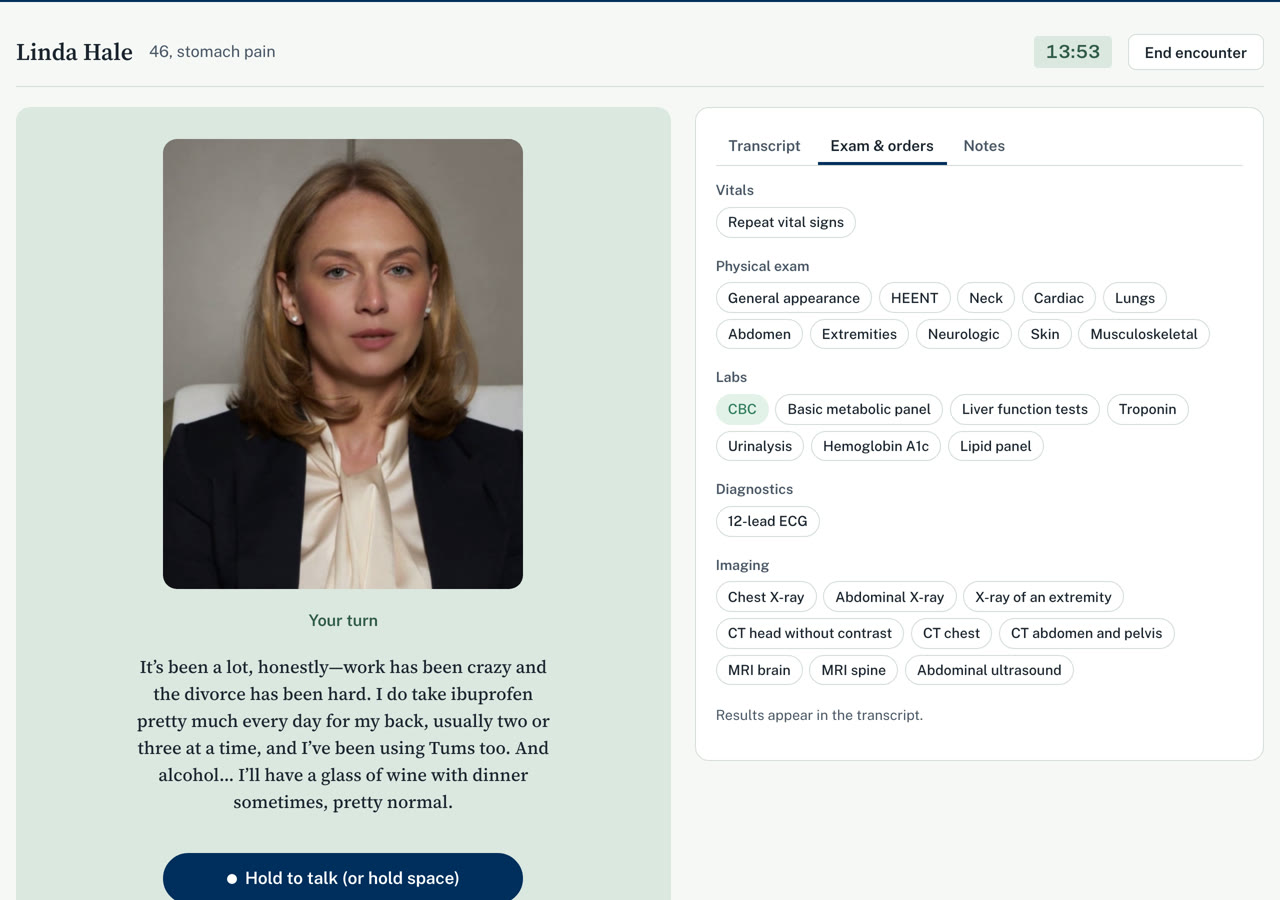
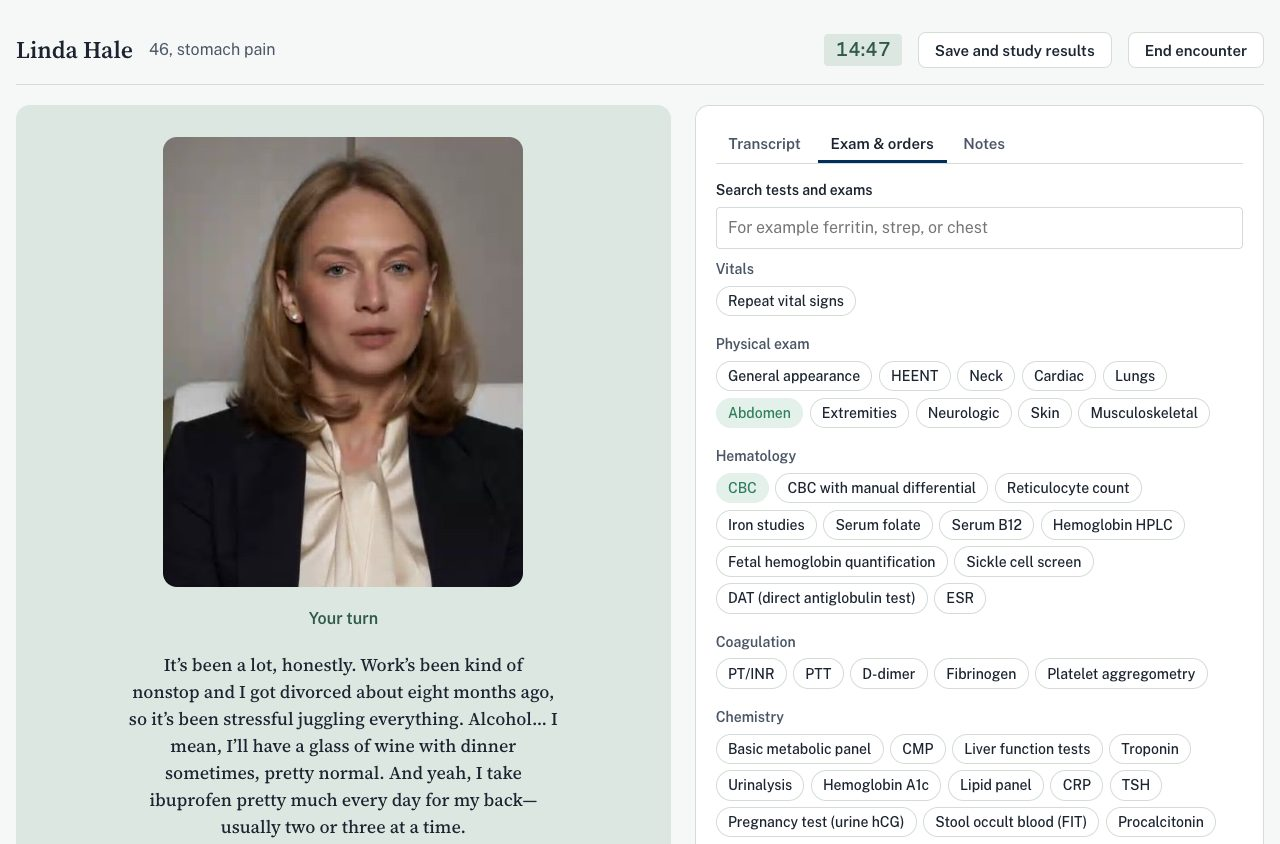
Faculty guide: retake the screens for version 0.3
The orders menu, wrap-up, feedback and review have all changed since October:
about 80 tests with a search box, a question on what the results mean, and
scores for the workup and the plan. The text follows, and the clinic and door
chart pictures are fresh too.

diff --git a/faculty-guide.html b/faculty-guide.html
@@ -116,27 +116,27 @@
 <div class="step">
   <div>
     <h3><span class="num">4</span>Examine and order tests</h3>
-    <p>The same menu of exams, labs and imaging appears for every case, so it never hints at the diagnosis. Results appear in the transcript; ordering imaging can show the case's image.</p>
+    <p>The same menu of about 80 exams, labs and imaging studies, with a search box, appears for every case, so it never hints at the diagnosis. Results appear in the transcript; ordering imaging can show the case's image.</p>
   </div>
-  <figure><a href="images/orders.jpg"><img src="images/orders.jpg" alt="The Exam and orders tab: vitals, physical exam by system, labs such as CBC and metabolic panel, ECG, and imaging from X-rays to CT and MRI." loading="lazy"></a></figure>
+  <figure><a href="images/orders.jpg"><img src="images/orders.jpg" alt="The Exam and orders tab: a search box, then vitals, physical exam by system, and labs grouped by type, such as hematology and chemistry, beside the patient\'s video face." loading="lazy"></a></figure>
 </div>
 
 <div class="step">
   <div>
     <h3><span class="num">5</span>Present the patient</h3>
-    <p>After ending the encounter, students give a one-line summary, a ranked differential and a plan, as they would to an attending.</p>
+    <p>After ending the encounter, students give a one-line summary, a ranked differential, what the results mean and a treatment plan, as they would to an attending.</p>
   </div>
-  <figure><a href="images/wrap-up.jpg"><img src="images/wrap-up.jpg" alt="The wrap-up form with a one-line summary, a differential of peptic ulcer disease, gastritis, GERD, biliary colic and pancreatitis, and a plan." loading="lazy"></a></figure>
+  <figure><a href="images/wrap-up.jpg"><img src="images/wrap-up.jpg" alt="The wrap-up form: a one-line summary, a differential of peptic ulcer disease and others, what the results mean, and a treatment plan." loading="lazy"></a></figure>
 </div>
 
 <div class="step">
   <div>
     <h3><span class="num">6</span>Read the feedback</h3>
-    <p>A score for history and exam, communication (based on the Calgary-Cambridge guide) and clinical reasoning. Critical items that were missed are flagged, and the student gets three concrete things to work on.</p>
+    <p>A score for the history, the workup (the tests that were needed, and the cost against a budget), communication (based on the Calgary-Cambridge guide), clinical reasoning and the treatment plan, plus the follow-up visit when there is one. Each case sets what every section is worth. Critical items that were missed are flagged, and the student gets three concrete things to work on.</p>
     <p>Every checklist item links to the turns in the transcript where it happened, so students and faculty can see the evidence.</p>
     <p class="tip">For assigned encounters, faculty can hold feedback until they've reviewed it.</p>
   </div>
-  <figure><a href="images/feedback.jpg"><img src="images/feedback.jpg" alt="The feedback page: 56 out of 100 with history and exam 45, communication 67, reasoning 67; critical items missed; what to work on; a checklist with links to transcript turns; and the numbered transcript." loading="lazy"></a></figure>
+  <figure><a href="images/feedback.jpg"><img src="images/feedback.jpg" alt="The feedback page: 48 out of 100 with scores for history, workup, communication, reasoning and plan, critical items missed, what to work on, teaching points and the transcript." loading="lazy"></a></figure>
 </div>
 
 <h2>What faculty do</h2>
@@ -163,7 +163,7 @@
     <h3><span class="num">8</span>Review encounters</h3>
     <p>Results lists every encounter. A review shows the student's wrap-up, the scores and the full transcript. Faculty can override any score (every change is logged) and release the feedback to the student.</p>
   </div>
-  <figure><a href="images/review.jpg"><img src="images/review.jpg" alt="A faculty review of a student encounter: the student's wrap-up, the 56 out of 100 score breakdown, critical items missed, and the transcript." loading="lazy"></a></figure>
+  <figure><a href="images/review.jpg"><img src="images/review.jpg" alt="A faculty review of an encounter: the student\'s wrap-up, the 48 out of 100 score breakdown, critical items missed, and the transcript." loading="lazy"></a></figure>
 </div>
 
 <h2>Try it in ten minutes</h2>
